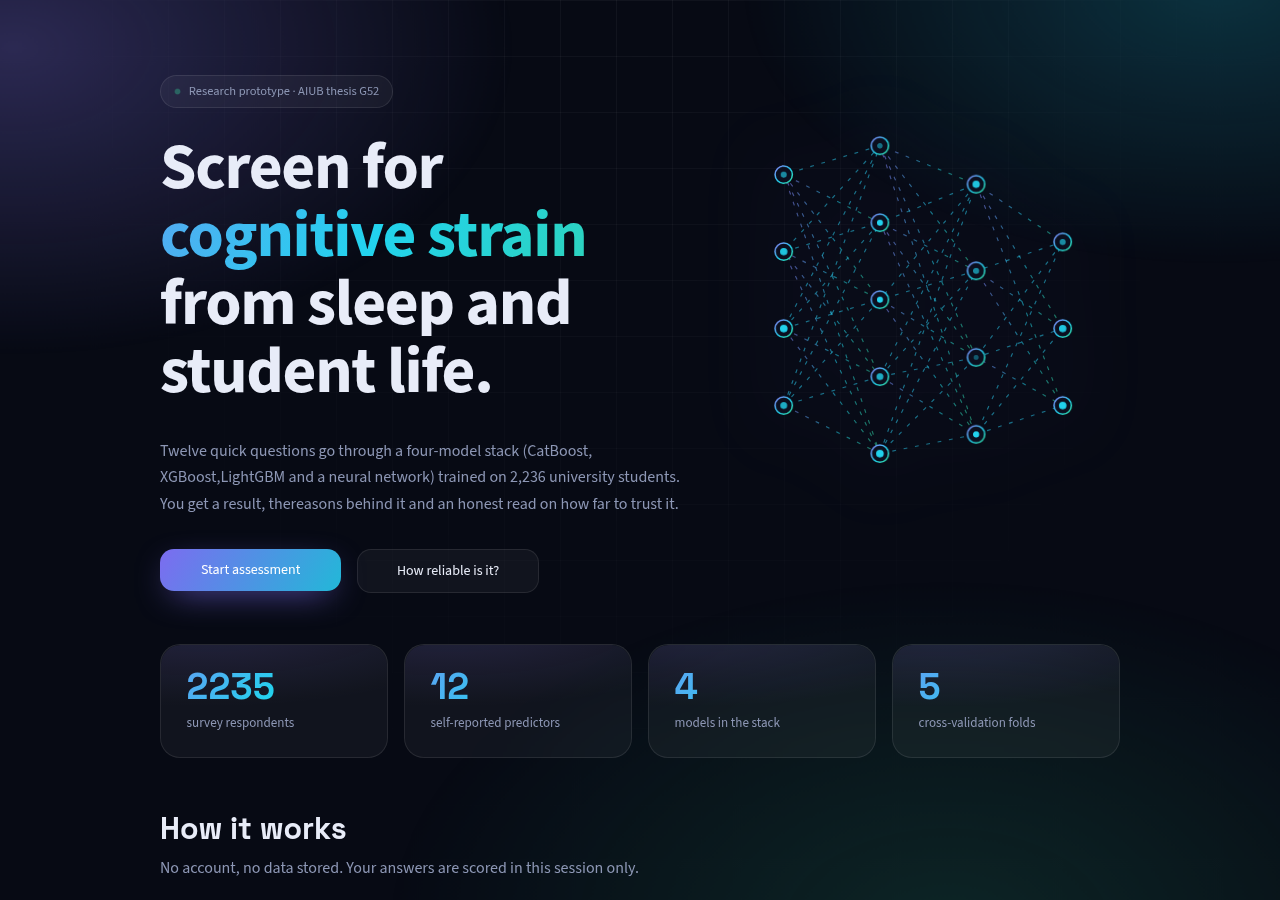
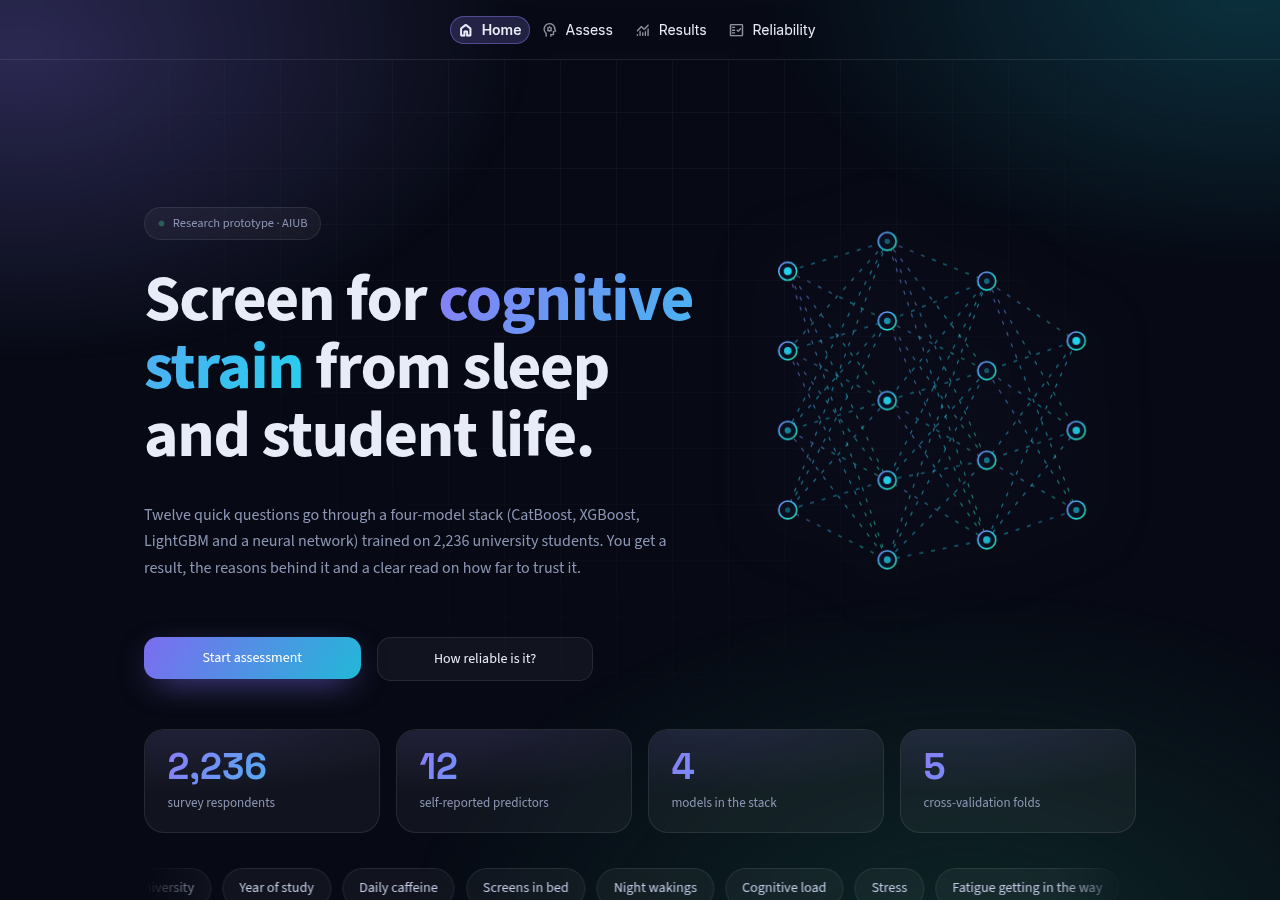
Restyle README to match my other repos and retake screenshots with the correct respondent count

diff --git a/README.md b/README.md
@@ -1,48 +1,173 @@
 <div align="center">
   <img src="assets/banner.svg" alt="Neuro-Screen banner" width="100%">
-  <p><code>Four-model stack (CatBoost, XGBoost, LightGBM, ANN) that screens sleep risk and cognitive-symptom risk in university students from 12 self-reported answers.</code></p>
-  <a href="https://neuro-screen.streamlit.app/">Live demo</a> · <a href="https://github.com/Saji-d/neuro-screen">Source</a>
+
+  <p><code>Four-model stack of CatBoost, XGBoost, LightGBM and an ANN that screens sleep risk and cognitive-symptom risk in university students from 12 self-reported answers.</code></p>
+
+  <a href="https://neuro-screen.streamlit.app/"><img src="https://img.shields.io/badge/LIVE%20DEMO-neuro--screen.streamlit.app-0B0E1A?style=for-the-badge&logo=streamlit&logoColor=8B7CF6" alt="Live demo"></a>
+  <a href="https://github.com/Saji-d/neuro-screen"><img src="https://img.shields.io/badge/SOURCE-Saji--d-0B0E1A?style=for-the-badge&logo=github&logoColor=8B7CF6" alt="Source"></a>
+  <img src="https://img.shields.io/badge/STATUS-RESEARCH-0B0E1A?style=for-the-badge&labelColor=0B0E1A&color=6366F1" alt="Status research">
+  <br>
+  <img src="https://img.shields.io/badge/Python-0B0E1A?style=flat-square&logo=python&logoColor=8B7CF6" alt="Python">
+  <img src="https://img.shields.io/badge/Streamlit-0B0E1A?style=flat-square&logo=streamlit&logoColor=8B7CF6" alt="Streamlit">
+  <img src="https://img.shields.io/badge/PyTorch-0B0E1A?style=flat-square&logo=pytorch&logoColor=8B7CF6" alt="PyTorch">
+  <img src="https://img.shields.io/badge/scikit--learn-0B0E1A?style=flat-square&logo=scikitlearn&logoColor=8B7CF6" alt="scikit-learn">
+  <img src="https://img.shields.io/badge/CatBoost-0B0E1A?style=flat-square&logoColor=8B7CF6" alt="CatBoost">
+  <img src="https://img.shields.io/badge/XGBoost-0B0E1A?style=flat-square&logoColor=8B7CF6" alt="XGBoost">
+  <img src="https://img.shields.io/badge/LightGBM-0B0E1A?style=flat-square&logoColor=8B7CF6" alt="LightGBM">
+  <img src="https://img.shields.io/badge/Plotly-0B0E1A?style=flat-square&logo=plotly&logoColor=8B7CF6" alt="Plotly">
+  <img src="https://img.shields.io/badge/pandas-0B0E1A?style=flat-square&logo=pandas&logoColor=8B7CF6" alt="pandas">
+  <img src="https://img.shields.io/badge/NumPy-0B0E1A?style=flat-square&logo=numpy&logoColor=8B7CF6" alt="NumPy">
+
+  <p>
+    <a href="#-overview">Overview</a> ·
+    <a href="#-highlights">Highlights</a> ·
+    <a href="#-preview">Preview</a> ·
+    <a href="#-pipeline">Pipeline</a> ·
+    <a href="#-results">Results</a> ·
+    <a href="#-tech-stack">Tech Stack</a> ·
+    <a href="#-getting-started">Getting Started</a> ·
+    <a href="#-project-structure">Structure</a> ·
+    <a href="#-author">Author</a>
+  </p>
 </div>
 
+<img src="assets/divider.svg" alt="" width="100%">
+
+## ◈ Overview
+
+Neuro-Screen is a Streamlit app that takes twelve quick lifestyle answers (sleep habits, caffeine, screen use, stress, workload) and runs them through a stack of four models trained on a survey of 2,236 university students. It returns two estimates, a sleep-risk score and a cognitive-symptom score, together with the reasons behind them and a plain read on how far to trust the result.
+
+The reference analysis lives in a notebook, and `scripts/train_models.py` reproduces its model stack from the raw survey so every number in the app can be regenerated. No data is stored: answers are scored inside the browser session only.
+
 > [!WARNING]
-> **Research prototype, not a medical device.** Labels come from self-reported survey items, not a clinical test.
+> **Research prototype, not a medical device.** Labels come from self-reported survey items, not a clinical test. With the symptom and sleep-rule questions removed from the predictors, the stack does not beat the majority-class baseline, and the app says so on its Reliability page.
 
-<div align="center"><img src="docs/preview.png" alt="Neuro-Screen preview" width="90%"></div>
+<img src="assets/divider.svg" alt="" width="100%">
 
-## Results (5-fold cross-validation)
+## ◈ Highlights
 
-With the symptom and sleep-rule questions **removed from the predictors**, the stack does not beat the majority-class baseline:
+<table>
+  <tr>
+    <td width="33%" valign="top"><b>Four-model stack</b><br>CatBoost, XGBoost, LightGBM and a 128-64-1 PyTorch ANN, combined by a logistic head learned on 3-fold out-of-fold scores.</td>
+    <td width="33%" valign="top"><b>Two screening tasks</b><br>Sleep risk on all 2,236 respondents and cognitive symptoms on the 1,692 who meet the sleep-risk rule.</td>
+    <td width="33%" valign="top"><b>No label leakage</b><br>The symptom and sleep-rule questions are excluded from the predictors by design, so the label cannot leak into the model.</td>
+  </tr>
+  <tr>
+    <td valign="top"><b>Guided assessment</b><br>A five-step wizard with a live profile panel, then a staged analysis run and a results page.</td>
+    <td valign="top"><b>Honest reliability page</b><br>Five-fold cross-validation for every model against a majority-class baseline, as mean and standard deviation.</td>
+    <td valign="top"><b>Private by default</b><br>Nothing is written to a database or sent anywhere else. Answers live in the session only.</td>
+  </tr>
+</table>
+
+<img src="assets/divider.svg" alt="" width="100%">
+
+## ◈ Preview
+
+<div align="center">
+  <img src="docs/preview.png" alt="Neuro-Screen landing page" width="90%">
+</div>
+
+<br>
+
+<table>
+  <tr>
+    <td align="center"><img src="docs/assess.png" alt="Assessment wizard with live profile panel" width="100%"><br><sub>Assessment wizard with live profile</sub></td>
+    <td align="center"><img src="docs/reliability.png" alt="Reliability page with cross-validation results" width="100%"><br><sub>Reliability page with cross-validation results</sub></td>
+  </tr>
+</table>
+
+<img src="assets/divider.svg" alt="" width="100%">
+
+## ◈ Pipeline
+
+```mermaid
+flowchart LR
+    A["Survey CSV<br/>2,236 respondents"] --> B["Scoring<br/>sleep-risk rule + symptom score"]
+    B --> C["12 predictors<br/>symptom items excluded"]
+    C --> D["CatBoost, XGBoost,<br/>LightGBM, ANN"]
+    D --> E["Logistic head<br/>3-fold out-of-fold scores"]
+    E --> F["Two estimates<br/>sleep risk, cognitive symptoms"]
+    F --> G["Streamlit app<br/>result + reliability"]
+```
+
+**Sleep-risk rule.** A respondent meets it if they sleep under 6 hours a night or rate their sleep quality 3 out of 5 or worse.
+
+**Cognitive label.** A symptom score at or above the 72nd percentile of the training split, among respondents who meet the sleep-risk rule. The score comes from seven self-reported symptom questions.
+
+<img src="assets/divider.svg" alt="" width="100%">
+
+## ◈ Results
+
+All values are 5-fold cross-validation means, produced by `scripts/train_models.py` and saved in `models/eval_metrics.json`.
 
 | Task | Majority accuracy | Stack accuracy | Stack ROC-AUC |
-|---|---|---|---|
-| Cognitive symptoms (n=1,692) | 0.621 | 0.621 | 0.48 |
-| Sleep risk (n=2,236) | 0.757 | 0.757 | 0.49 |
+|---|---:|---:|---:|
+| Cognitive symptoms (n = 1,692) | 0.621 | 0.621 | 0.48 |
+| Sleep risk (n = 2,236) | 0.757 | 0.757 | 0.49 |
 
-Symptom and sleep-rule items are excluded from the predictors by design, so the label cannot leak into the model. Full per-model tables are in the app's **Reliability** page and `models/eval_metrics.json`.
+**Cognitive-symptom screen**, mean ± sample SD over 5 folds:
 
-## Method
+| Model | Accuracy | Balanced accuracy | ROC-AUC |
+|---|---:|---:|---:|
+| Majority baseline | 0.621 ± 0.030 | 0.500 ± 0.000 | 0.500 ± 0.000 |
+| CatBoost | 0.621 ± 0.030 | 0.500 ± 0.000 | 0.483 ± 0.016 |
+| XGBoost | 0.593 ± 0.031 | 0.491 ± 0.012 | 0.494 ± 0.033 |
+| LightGBM | 0.571 ± 0.021 | 0.493 ± 0.024 | 0.495 ± 0.052 |
+| ANN | 0.531 ± 0.037 | 0.496 ± 0.044 | 0.505 ± 0.045 |
+| Four-model stack | 0.621 ± 0.030 | 0.500 ± 0.000 | 0.480 ± 0.033 |
 
-`notebooks/thesis-updated-code.ipynb` is the reference analysis. `scripts/train_models.py` reproduces its four-model stack: CatBoost, XGBoost and LightGBM plus a 128-64-1 PyTorch ANN, combined by a logistic head learned on 3-fold out-of-fold scores. The cognitive label is a symptom score >= the 72nd percentile of the training split, among respondents meeting the sleep-risk rule (<6 h sleep or quality <= 3/5).
+> [!NOTE]
+> Every model lands at chance level. With the symptom questions removed from the inputs, these twelve lifestyle answers do not separate students with higher and lower symptom scores in this dataset, so the scores should be read as a conversation starter, not a conclusion. The sleep-risk table is on the app's **Reliability** page.
 
-## Run
+<img src="assets/divider.svg" alt="" width="100%">
+
+## ◈ Tech Stack
+
+| Layer | Technologies | Purpose |
+|---|---|---|
+| App | Streamlit, Plotly | Top-navigation interface, assessment wizard and charts |
+| Tree models | CatBoost, XGBoost, LightGBM | Three gradient-boosted base learners |
+| Neural network | PyTorch | 128-64-1 ANN base learner |
+| Stacking | scikit-learn | Logistic head, cross-validation and metrics |
+| Data | pandas, NumPy | Survey scoring and feature preparation |
+
+<img src="assets/divider.svg" alt="" width="100%">
+
+## ◈ Getting Started
+
+**Prerequisites:** Python 3. The survey CSV is included in `data/`.
 
 ```bash
+git clone https://github.com/Saji-d/neuro-screen.git
+cd neuro-screen
 pip install -r requirements.txt
 python scripts/train_models.py      # writes models/ (add --skip-cv for a fast fit)
 streamlit run app.py
 ```
 
-## Structure
+Package versions are pinned in `requirements.txt` because the scikit-learn pickles must load with the version that trained them.
 
-```
-app.py                  Streamlit shell (top navigation)
-config.py               paths + brand
-modules/ml/             survey scoring + the stack (train and load)
-modules/predictor.py    the single inference path
-modules/ui/             theme, components and pages (home, assess, results, reliability)
-scripts/train_models.py training + cross-validation
-models/                 trained artifacts + eval_metrics.json
-notebooks/              reference analysis
+<img src="assets/divider.svg" alt="" width="100%">
+
+## ◈ Project Structure
+
+`notebooks/thesis-updated-code.ipynb` is the reference analysis. `scripts/train_models.py` reproduces its four-model stack.
+
+```text
+.
+├── app.py                    # Streamlit shell with top navigation
+├── config.py                 # paths and brand
+├── modules/
+│   ├── ml/                   # survey scoring and the stack (train and load)
+│   ├── predictor.py          # the single inference path
+│   └── ui/                   # theme, components and pages (home, assess, results, reliability)
+├── scripts/train_models.py   # training and cross-validation
+├── models/                   # trained artifacts and eval_metrics.json
+├── notebooks/                # reference analysis
+├── data/                     # survey CSV
+├── docs/                     # preview screenshots
+├── assets/                   # banner, divider and stylesheet
+└── README.md
 ```
 
 <img src="assets/divider.svg" alt="" width="100%">
@@ -60,3 +185,5 @@ The survey dataset and the reference analysis (`notebooks/thesis-updated-code.ip
   <a href="https://github.com/Saji-d"><img src="https://img.shields.io/badge/GitHub-0B0E1A?style=flat-square&logo=github&logoColor=EEF0FA" alt="GitHub"></a>
   <a href="mailto:sajidsajidurrahman99@gmail.com"><img src="https://img.shields.io/badge/Email-0B0E1A?style=flat-square&logo=gmail&logoColor=9B8CFA" alt="Email"></a>
 </p>
+
+<sub>A research prototype, shared as it was built. Not for clinical use.</sub>
